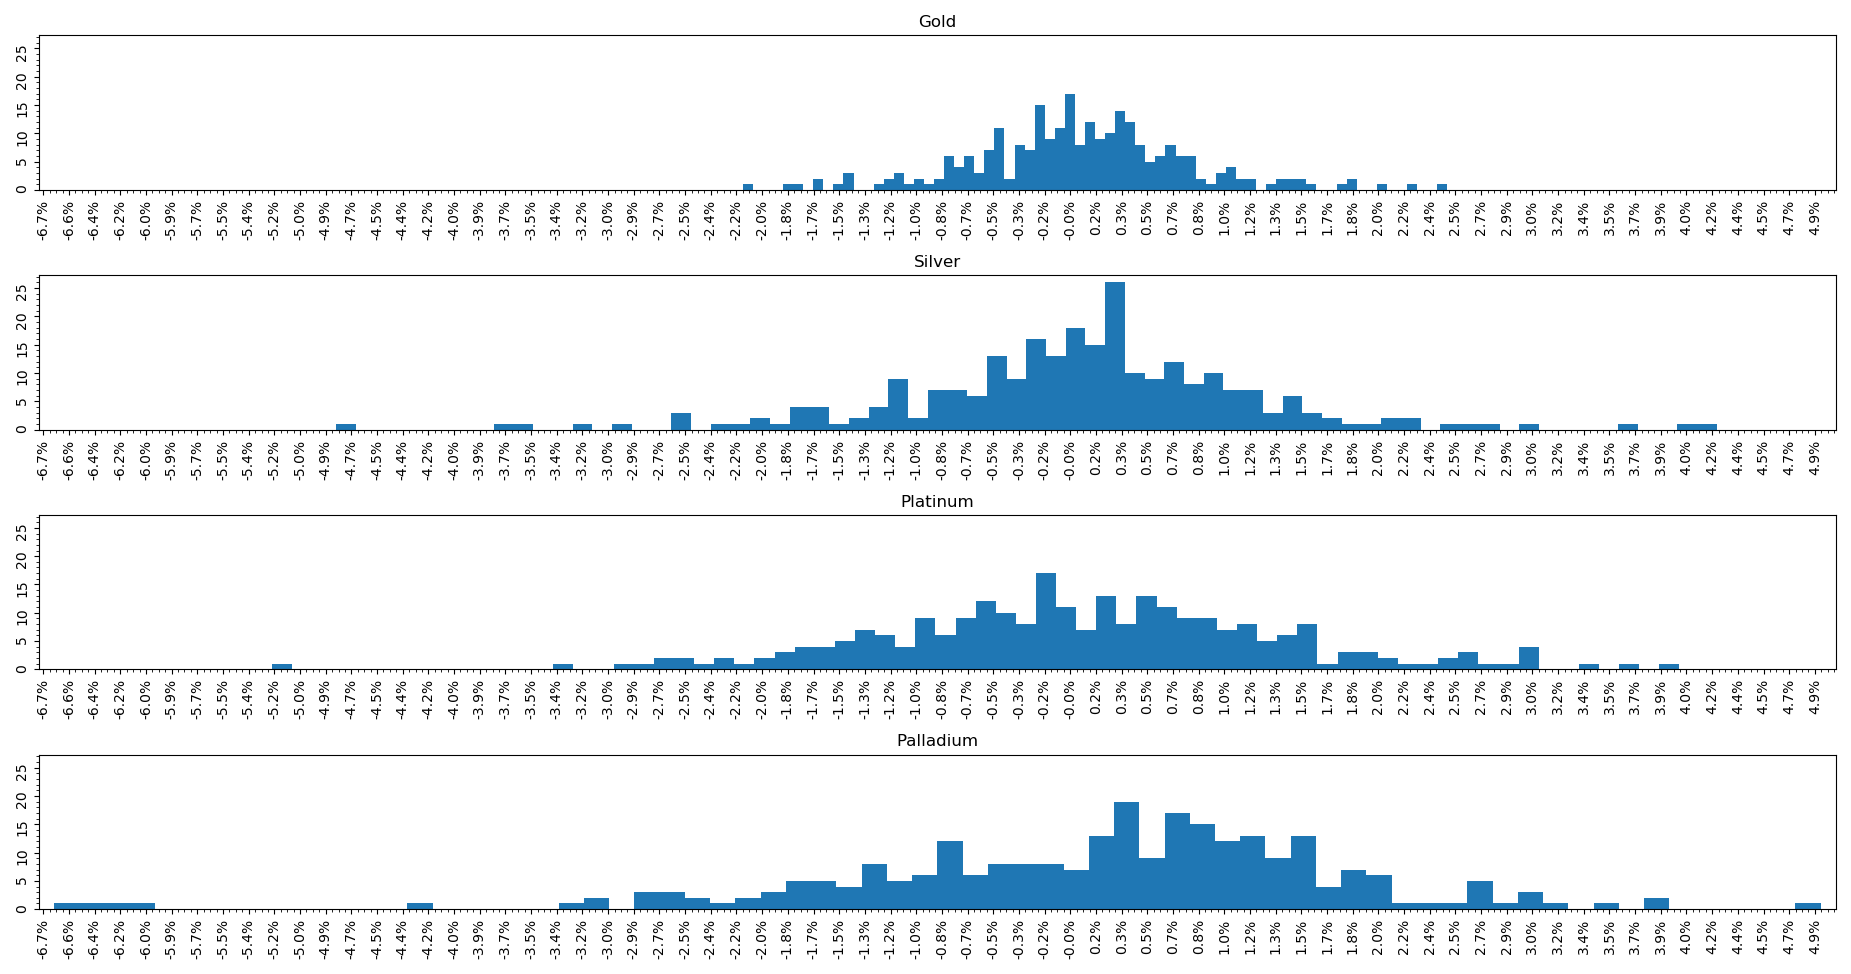
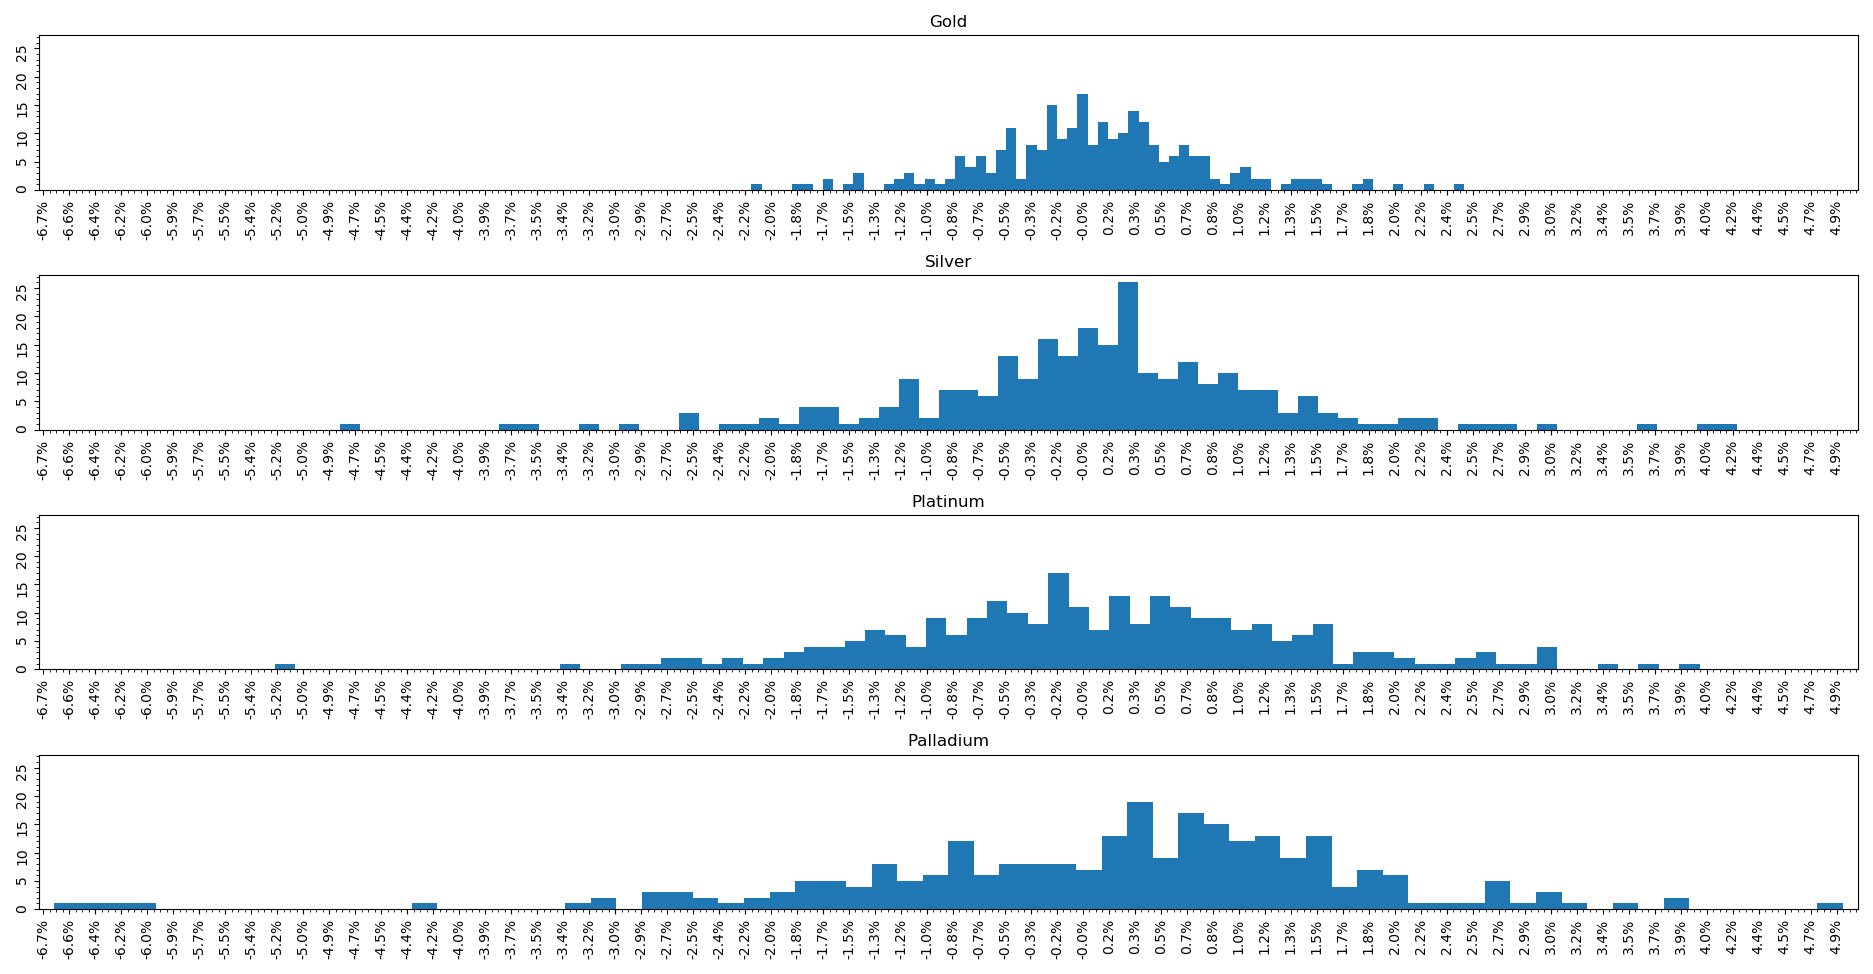
fix part1 done

diff --git a/src/part1.py b/src/part1.py
@@ -29,9 +29,9 @@ def excel_to_dataframes(file_path=file_path):
                                                parse_dates=date_column).sort_values(by='Date', ascending=True)
         dataframes[sheet_name]['% Daily Return'] = dataframes[sheet_name]['Bid Close'].pct_change(1) * 100
         if min(dataframes[sheet_name]['% Daily Return'].dropna()) < min_val:
-            min_val = min(dataframes[sheet_name]['% Daily Return'])
+            min_val = min(dataframes[sheet_name]['% Daily Return'].dropna())
         if max(dataframes[sheet_name]['% Daily Return'].dropna()) > max_val:
-            max_val = max(dataframes[sheet_name]['% Daily Return'])
+            max_val = max(dataframes[sheet_name]['% Daily Return'].dropna())
     return dataframes, (min_val - 0.1, max_val + 0.1)
 
 
